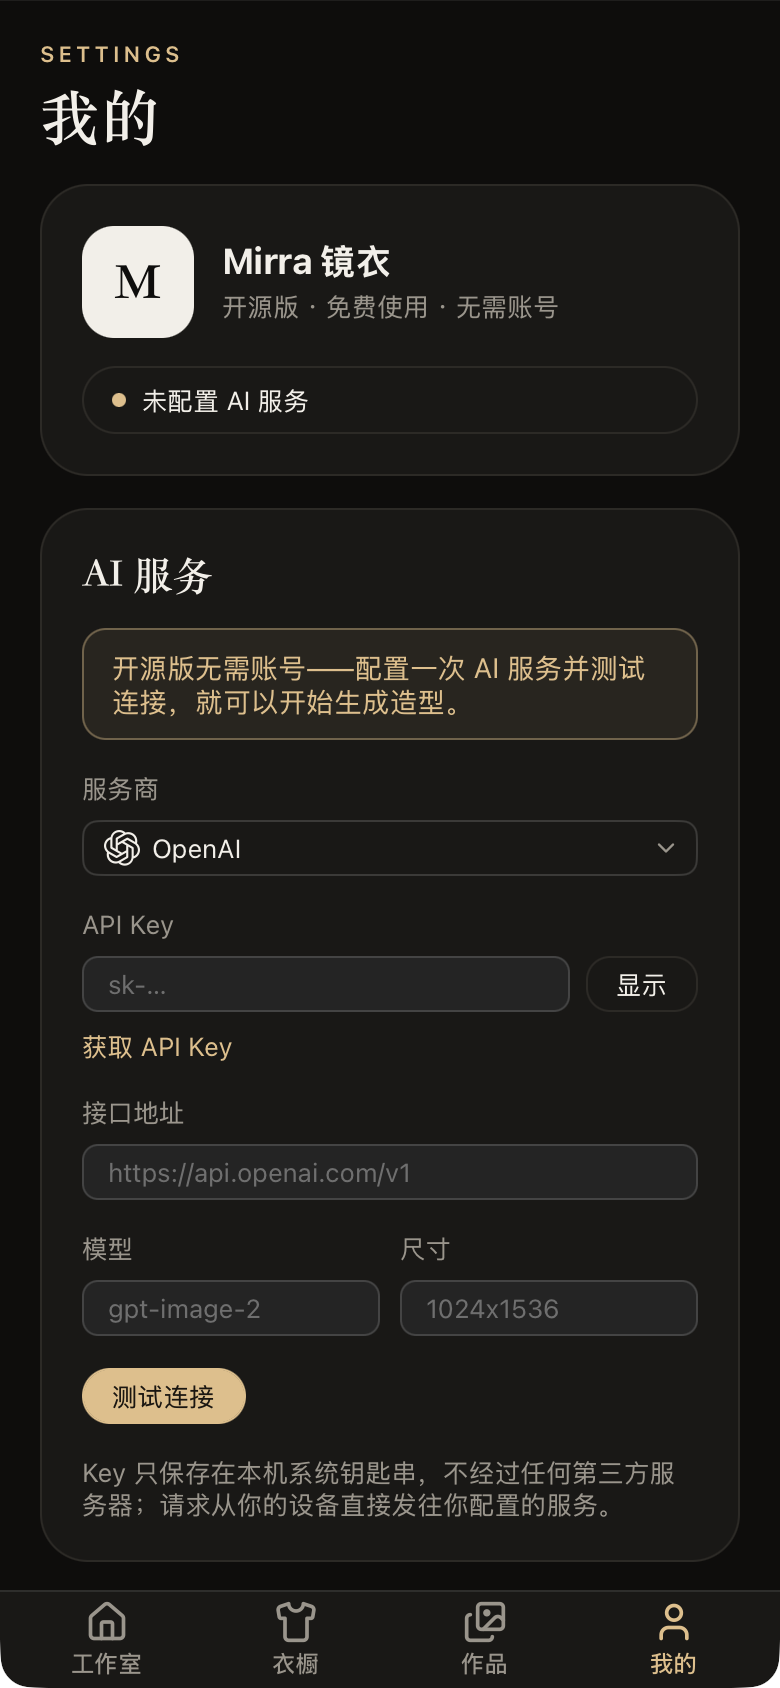
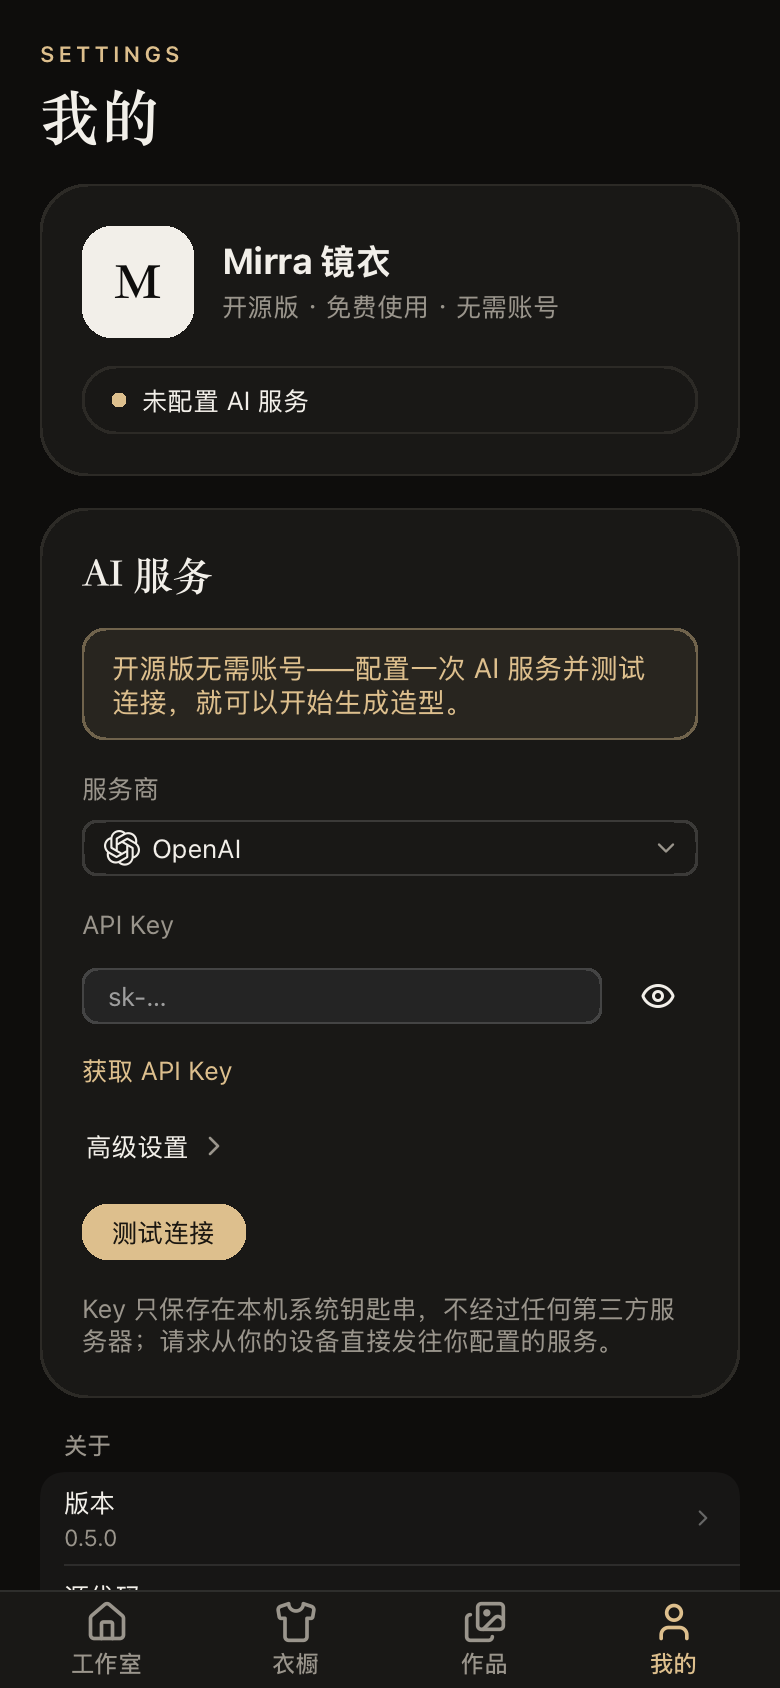
feat(settings): put the address, model and size under Advanced
The AI settings show the provider and the key first. The address, model and size move under an Advanced section, which opens on its own once one of them is changed and resets them to the provider's; Azure OpenAI and a custom server keep their address beside the key, since they have none of their own. The size is chosen as portrait, square or landscape, the key is shown or hidden with an eye button, and About gives the version.

The desktop dialog scrolls its settings, which with Advanced open are taller than a small window.

diff --git a/apps/mirra/pages.go b/apps/mirra/pages.go
@@ -366,20 +366,27 @@ func (s *studio) serviceSettings(cx *core.Scope) core.Node {
 		if p.KeyOptional {
 			keyLabel = t.ApiKeyOptional()
 		}
-		keyRow := core.View{Style: core.Style{Direction: core.Row, Gap: 8}, Children: []core.Node{
+		keyRow := core.View{Style: core.Style{Direction: core.Row, AlignItems: core.AlignCenter, Gap: 8}, Children: []core.Node{
 			core.View{Style: core.Style{FlexGrow: 1, FlexShrink: 1}, Children: []core.Node{
 				core.Dynamic(func(cx *core.Scope) core.Node {
 					return ui.Input{Value: set.key.Get, OnChange: setKey, OnBlur: saveKey, Masked: !s.showKey.Get(), Label: keyLabel, Placeholder: p.KeyHint, TestID: "api-key"}
 				}),
 			}},
-			core.Dynamic(func(cx *core.Scope) core.Node {
-				text := t.ShowKey()
-				if s.showKey.Get() {
-					text = t.HideKey()
-				}
-				return ui.Button{Variant: ui.ButtonOutline, TestID: "show-key", Style: core.Style{CornerRadius: 12},
-					Text: text, OnPress: func() { s.showKey.Update(func(v bool) bool { return !v }) }}
-			}),
+			ui.IconButton{TestID: "show-key", Size: 40, IconSize: 18,
+				Icon: func() *core.SVG {
+					if s.showKey.Get() {
+						return lucide.EyeOff()
+					}
+					return lucide.Eye()
+				},
+				LabelFunc: func() string {
+					if s.showKey.Get() {
+						return t.HideKey()
+					}
+					return t.ShowKey()
+				},
+				Selected: s.showKey.Get,
+				OnPress:  func() { s.showKey.Update(func(v bool) bool { return !v }) }},
 		}}
 		key := []core.Node{caption(cx, func() string { return keyLabel }), keyRow}
 		if p.KeyURL != "" {
@@ -389,20 +396,53 @@ func (s *studio) serviceSettings(cx *core.Scope) core.Node {
 		if urlHint == "" {
 			urlHint = p.URLHint
 		}
-		half := func(n core.Node) core.Node {
-			return core.View{Style: core.Style{FlexGrow: 1, FlexBasis: core.Pt(0)}, Children: []core.Node{n}}
+		address := field(cx, t.BaseURL, ui.Input{Value: set.url.Get, OnChange: setStored("url", func(ps providerSettings) *core.Signal[string] { return ps.url }),
+			Label: t.BaseURL(), Placeholder: urlHint, KeyboardType: core.KeyboardURL, TestID: "base-url"})
+		size := func() string { return or(set.size.Get(), p.Size) }
+		sizes := ui.Tabs[string]{Label: t.Size(), Equal: true, Value: size, TestID: "size",
+			OnChange: func(v string) {
+				// The preset's own size is kept as "", so the setting follows the preset.
+				if v == p.Size {
+					v = ""
+				}
+				setStored("size", func(ps providerSettings) *core.Signal[string] { return ps.size })(v)
+			},
+			Options: []ui.Option[string]{
+				{Value: sizePortrait, Label: t.SizePortrait(), TestID: "size-portrait"},
+				{Value: sizeSquare, Label: t.SizeSquare(), TestID: "size-square"},
+				{Value: sizeLandscape, Label: t.SizeLandscape(), TestID: "size-landscape"},
+			}}
+		changed := func() bool { return set.url.Get() != "" || set.model.Get() != "" || set.size.Get() != "" }
+		reset := ui.Button{Text: t.ResetDefaults(), Icon: lucide.RotateCcw, Variant: ui.ButtonGhost, Size: ui.SizeSmall, TestID: "reset-defaults", Disabled: func() bool { return !changed() },
+			OnPress: func() {
+				for _, f := range []struct {
+					name string
+					sig  *core.Signal[string]
+				}{{"url", set.url}, {"model", set.model}, {"size", set.size}} {
+					f.sig.Set("")
+					store.RemoveItem(p.storageKey(f.name))
+				}
+				s.resetConnection()
+			}}
+		var advanced []core.Node
+		// A provider without an address of its own, such as Azure's, needs the user's: it shows with the key rather than among the advanced settings.
+		if p.BaseURL != "" {
+			advanced = append(advanced, address)
 		}
-		return core.View{Style: core.Style{Gap: 16}, Children: []core.Node{
-			core.View{Style: core.Style{Gap: 8}, Children: key},
-			field(cx, t.BaseURL, ui.Input{Value: set.url.Get, OnChange: setStored("url", func(ps providerSettings) *core.Signal[string] { return ps.url }),
-				Label: t.BaseURL(), Placeholder: urlHint, KeyboardType: core.KeyboardURL, TestID: "base-url"}),
-			core.View{Style: core.Style{Direction: core.Row, Gap: 10}, Children: []core.Node{
-				half(field(cx, t.Model, ui.Input{Value: set.model.Get, OnChange: setStored("model", func(ps providerSettings) *core.Signal[string] { return ps.model }),
-					Label: t.Model(), Placeholder: p.Model, TestID: "model"})),
-				half(field(cx, t.Size, ui.Input{Value: set.size.Get, OnChange: setStored("size", func(ps providerSettings) *core.Signal[string] { return ps.size }),
-					Label: t.Size(), Placeholder: p.Size, TestID: "size"})),
-			}},
-		}}
+		advanced = append(advanced,
+			field(cx, t.Model, ui.Input{Value: set.model.Get, OnChange: setStored("model", func(ps providerSettings) *core.Signal[string] { return ps.model }),
+				Label: t.Model(), Placeholder: p.Model, TestID: "model"}),
+			field(cx, t.Size, sizes),
+			core.View{Style: core.Style{Direction: core.Row}, Children: []core.Node{reset}})
+		// The advanced settings open on their own when the user changed one; read untracked, so changing a field does not draw the fields again.
+		open := core.NewSignal(cx, core.Untracked(cx, changed))
+		children := []core.Node{core.View{Style: core.Style{Gap: 8}, Children: key}}
+		if p.BaseURL == "" {
+			children = append(children, address)
+		}
+		children = append(children, ui.Collapsible{Text: t.AdvancedSettings(), Open: open.Get, OnOpenChange: open.Set, TestID: "advanced",
+			Content: core.View{Style: core.Style{Gap: 16, Padding: core.Edges{Top: 12}}, Children: advanced}})
+		return core.View{Style: core.Style{Gap: 16}, Children: children}
 	})
 	result := core.Dynamic(func(cx *core.Scope) core.Node {
 		switch s.conn.Get() {
@@ -449,7 +489,12 @@ func (s *studio) serviceSettings(cx *core.Scope) core.Node {
 func (s *studio) aboutLinks(cx *core.Scope) core.Node {
 	t := locales.For(cx)
 	open := func(url string) func() { return func() { cx.OpenURL(url, func(bool) {}) } }
+	version := core.App().Version
+	if version == "" {
+		version = t.VersionDevelopment()
+	}
 	return ui.FormSection{Title: t.AboutSection(), Children: []core.Node{
+		ui.FormRow{Title: t.Version(), Detail: version, OnPress: open(repoURL + "/releases"), TestID: "version"},
 		ui.FormRow{Title: t.SourceCode(), Detail: "GitHub", OnPress: open(repoURL)},
 		ui.FormRow{Title: t.License(), Detail: "MIT", OnPress: open(repoURL + "/blob/main/LICENSE")},
 		ui.FormRow{Title: t.SourcesPose(), Detail: "POSE-DB-01", OnPress: open(DefaultSites.Pose)},
@@ -506,6 +551,9 @@ func (s *studio) settingsDialog(cx *core.Scope) core.Node {
 		Footer: []core.Node{ui.Button{Text: t.Close(), Variant: ui.ButtonSecondary, TestID: "close-settings", Style: core.Style{CornerRadius: 999},
 			OnPress: func() { s.settingsShown.Set(false) }}},
 		Children: []core.Node{
-			core.View{TestID: "settings", Style: core.Style{Gap: 16}, Children: []core.Node{s.serviceSettings(cx), s.aboutLinks(cx)}},
+			// The dialog stops at the window's height; with Advanced open the settings are taller, so they scroll inside it.
+			core.Scroll{Style: core.Style{FlexShrink: 1, MinHeight: core.Pt(0)}, Children: []core.Node{
+				core.View{TestID: "settings", Style: core.Style{Gap: 16}, Children: []core.Node{s.serviceSettings(cx), s.aboutLinks(cx)}},
+			}},
 		}}
 }

diff --git a/apps/mirra/locales/catalog_gen.go b/apps/mirra/locales/catalog_gen.go
@@ -217,6 +217,13 @@ const (
 	textProviderVolcengine
 	textProviderDashScope
 	textGetApiKey
+	textAdvancedSettings
+	textSizePortrait
+	textSizeSquare
+	textSizeLandscape
+	textResetDefaults
+	textVersion
+	textVersionDevelopment
 	textBaseURL
 	textApiKey
 	textApiKeyOptional
@@ -360,6 +367,13 @@ var keyOfText = [numTexts]string{
 	"providerVolcengine",
 	"providerDashScope",
 	"getApiKey",
+	"advancedSettings",
+	"sizePortrait",
+	"sizeSquare",
+	"sizeLandscape",
+	"resetDefaults",
+	"version",
+	"versionDevelopment",
 	"baseURL",
 	"apiKey",
 	"apiKeyOptional",
@@ -501,6 +515,13 @@ var textsEn = i18n.NewTexts(""+
 	"Volcengine Ark"+
 	"Alibaba Cloud Model Studio"+
 	"Get an API key"+
+	"Advanced"+
+	"Portrait"+
+	"Square"+
+	"Landscape"+
+	"Reset to defaults"+
+	"Version"+
+	"Development build"+
 	"Address"+
 	"API key"+
 	"API key (optional)"+
@@ -639,6 +660,13 @@ var textsEn = i18n.NewTexts(""+
 		14,
 		26,
 		14,
+		8,
+		8,
+		6,
+		9,
+		17,
+		7,
+		17,
 		7,
 		7,
 		18,
@@ -780,6 +808,13 @@ var textsZhHans = i18n.NewTexts(""+
 	"火山方舟"+
 	"阿里云百炼"+
 	"获取 API Key"+
+	"高级设置"+
+	"竖版"+
+	"方形"+
+	"横版"+
+	"恢复默认"+
+	"版本"+
+	"开发版"+
 	"接口地址"+
 	"API Key"+
 	"API Key（可留空）"+
@@ -918,6 +953,13 @@ var textsZhHans = i18n.NewTexts(""+
 		12,
 		15,
 		14,
+		12,
+		6,
+		6,
+		6,
+		12,
+		6,
+		9,
 		12,
 		7,
 		22,
@@ -2306,6 +2348,55 @@ func GetApiKey(cx *core.Scope) string { return For(cx).GetApiKey() }
 
 // GetApiKey is the package's GetApiKey in the language of msgs.
 func (msgs Messages) GetApiKey() string { return msgs.text(textGetApiKey) }
+
+// AdvancedSettings says "Advanced"
+// in the language the app shows under cx.
+func AdvancedSettings(cx *core.Scope) string { return For(cx).AdvancedSettings() }
+
+// AdvancedSettings is the package's AdvancedSettings in the language of msgs.
+func (msgs Messages) AdvancedSettings() string { return msgs.text(textAdvancedSettings) }
+
+// SizePortrait says "Portrait"
+// in the language the app shows under cx.
+func SizePortrait(cx *core.Scope) string { return For(cx).SizePortrait() }
+
+// SizePortrait is the package's SizePortrait in the language of msgs.
+func (msgs Messages) SizePortrait() string { return msgs.text(textSizePortrait) }
+
+// SizeSquare says "Square"
+// in the language the app shows under cx.
+func SizeSquare(cx *core.Scope) string { return For(cx).SizeSquare() }
+
+// SizeSquare is the package's SizeSquare in the language of msgs.
+func (msgs Messages) SizeSquare() string { return msgs.text(textSizeSquare) }
+
+// SizeLandscape says "Landscape"
+// in the language the app shows under cx.
+func SizeLandscape(cx *core.Scope) string { return For(cx).SizeLandscape() }
+
+// SizeLandscape is the package's SizeLandscape in the language of msgs.
+func (msgs Messages) SizeLandscape() string { return msgs.text(textSizeLandscape) }
+
+// ResetDefaults says "Reset to defaults"
+// in the language the app shows under cx.
+func ResetDefaults(cx *core.Scope) string { return For(cx).ResetDefaults() }
+
+// ResetDefaults is the package's ResetDefaults in the language of msgs.
+func (msgs Messages) ResetDefaults() string { return msgs.text(textResetDefaults) }
+
+// Version says "Version"
+// in the language the app shows under cx.
+func Version(cx *core.Scope) string { return For(cx).Version() }
+
+// Version is the package's Version in the language of msgs.
+func (msgs Messages) Version() string { return msgs.text(textVersion) }
+
+// VersionDevelopment says "Development build"
+// in the language the app shows under cx.
+func VersionDevelopment(cx *core.Scope) string { return For(cx).VersionDevelopment() }
+
+// VersionDevelopment is the package's VersionDevelopment in the language of msgs.
+func (msgs Messages) VersionDevelopment() string { return msgs.text(textVersionDevelopment) }
 
 // BaseURL says "Address"
 // in the language the app shows under cx.

diff --git a/apps/mirra/app_test.go b/apps/mirra/app_test.go
@@ -247,6 +247,42 @@ func TestOldSettingsCarryOver(t *testing.T) {
 	}
 }
 
+// TestAdvancedSettings opens on the provider and key alone, keeps the address, model and size under Advanced, sends the size chosen there, and resets them to the preset's.
+func TestAdvancedSettings(t *testing.T) {
+	fresh := nsgotest.Start(t, App{DataDir: t.TempDir()}.Root, nsgotest.Environment(core.Environment{Locale: "en"}))
+	fresh.Press("text:Me")
+	fresh.Find("id:api-key")
+	fresh.Find("id:version")
+	if fresh.Exists("id:base-url") {
+		t.Error("a fresh install shows the address before Advanced is opened")
+	}
+	fresh.Press("id:advanced >> role:button")
+	fresh.WaitFor("id:base-url", wait)
+	fresh.Find("id:size-portrait")
+
+	api := &fakeAPI{}
+	app, _ := start(t, api, "k")
+	app.Press("text:Me")
+	// The test's address and model differ from OpenAI's, so Advanced opens on its own.
+	app.Find("id:base-url")
+	app.Press("id:size-square")
+	app.Press("text:Studio")
+	app.Press("id:row-pose")
+	choose(t, app, poseStand)
+	app.Press("id:generate")
+	app.WaitFor("id:shot-image", wait)
+	if got := api.last().Size; got != sizeSquare {
+		t.Errorf("size = %q, want the square one chosen", got)
+	}
+	app.Press("id:close-shot")
+	app.Press("text:Me")
+	app.Press("id:reset-defaults")
+	app.WaitUntil(wait, func() bool { return app.Find("id:reset-defaults").Props.Disabled })
+	if !app.Find("id:size-portrait").Props.Selected {
+		t.Error("resetting left the size other than the preset's portrait")
+	}
+}
+
 func TestConnectionTestReportsFailure(t *testing.T) {
 	app, _ := start(t, &fakeAPI{}, "bad")
 	app.Press("text:Me")

diff --git a/apps/mirra/providers.go b/apps/mirra/providers.go
@@ -131,6 +131,13 @@ const (
 	keyProvider      = "provider"
 )
 
+// The sizes the settings offer: portrait, which suits a full-length look, square and landscape.
+const (
+	sizePortrait  = "1024x1536"
+	sizeSquare    = "1024x1024"
+	sizeLandscape = "1536x1024"
+)
+
 // defaultLocalURL is the address an OpenAI-compatible server on the user's machine starts with.
 const defaultLocalURL = "http://127.0.0.1:8080/v1"
 

diff --git a/README.md b/README.md
@@ -98,7 +98,7 @@ go tool nsgo build                   # packages for every target in nsgo.yaml, i
 
 ### Set up the image API
 
-Open **Me** on a phone, or the settings button at the top right on the desktop, choose a provider, enter its key and press **Test connection**. The address, model and size start on the provider's own; change them only to use another region, gateway or model.
+Open **Me** on a phone, or the settings button at the top right on the desktop, choose a provider, enter its key and press **Test connection**. The address, model and size start on the provider's own and sit under **Advanced**; change them only to use another region, gateway or model, and **Reset to defaults** puts them back. Azure OpenAI and a custom server ask for their address beside the key.
 
 | Provider | API | Model it starts with |
 | --- | --- | --- |
@@ -112,7 +112,7 @@ Open **Me** on a phone, or the settings button at the top right on the desktop, 
 | stable-diffusion.cpp | its server's OpenAI-compatible `/images/edits` | `sd-cpp-local` |
 | Custom | any OpenAI-compatible `/images/edits` | `gpt-image-2` |
 
-Keys are stored in the macOS / iOS keychain, Android Keystore or Windows Credential Manager. The size is written as `1024x1536`; providers that take an aspect ratio get the closest one, `2:3`.
+Keys are stored in the macOS / iOS keychain, Android Keystore or Windows Credential Manager. The size is portrait (`1024x1536`), square (`1024x1024`) or landscape (`1536x1024`); providers that take an aspect ratio get the matching one, such as `2:3`.
 
 The connection test asks the provider for its models; Volcengine Ark and Model Studio have no such list, so the test sends them an empty request, which a valid key gets a 400 for. Each Generate is one call, or one per picture on Ark and Gemini, paid on a cloud provider. The requests follow each provider's API reference and are tested against fakes of them; they have not all been tried against the real services yet, and reports of what a provider does with them are welcome.
 

diff --git a/README.zh-CN.md b/README.zh-CN.md
@@ -98,7 +98,7 @@ go tool nsgo build                   # 打包 nsgo.yaml 里列出的所有平台
 
 ### 配置生图接口
 
-手机上打开「我的」，桌面上点右上角的设置按钮，选一个服务商，填好 Key 后点「测试连接」。接口地址、模型和尺寸默认用服务商自己的，只有要换地区、网关或模型时才需要改。
+手机上打开「我的」，桌面上点右上角的设置按钮，选一个服务商，填好 Key 后点「测试连接」。接口地址、模型和尺寸默认用服务商自己的，收在「高级设置」里；只有要换地区、网关或模型时才需要改，「恢复默认」可以一键改回。Azure OpenAI 和自定义服务的接口地址直接显示在 Key 旁边。
 
 | 服务商 | 接口 | 默认模型 |
 | --- | --- | --- |
@@ -112,7 +112,7 @@ go tool nsgo build                   # 打包 nsgo.yaml 里列出的所有平台
 | stable-diffusion.cpp | 它的服务端提供的 OpenAI 兼容 `/images/edits` | `sd-cpp-local` |
 | 自定义 | 任何 OpenAI 兼容的 `/images/edits` | `gpt-image-2` |
 
-Key 存在 macOS / iOS 钥匙串、Android Keystore 或 Windows 凭据管理器里。尺寸写成 `1024x1536`；只接受宽高比的服务商会用最接近的比例 `2:3`。
+Key 存在 macOS / iOS 钥匙串、Android Keystore 或 Windows 凭据管理器里。尺寸可选竖版（`1024x1536`）、方形（`1024x1024`）或横版（`1536x1024`）；只接受宽高比的服务商会用对应的比例，比如 `2:3`。
 
 测试连接会请求服务商的模型列表；火山方舟和阿里云百炼没有这个接口，就发一个空请求，Key 有效时会返回 400。每按一次「生成」是一次调用（火山方舟和 Gemini 是每张图一次），云端服务商会按次计费。各家请求都按官方 API 文档实现，并在测试里的模拟接口上验证过；还没有逐一对真实服务测试，欢迎反馈各服务商的实际表现。
 

diff --git a/CHANGELOG.md b/CHANGELOG.md
@@ -2,6 +2,7 @@
 
 ## Unreleased
 
+- The AI settings show the provider and key first, with the address, model and size under Advanced and a reset to the provider's defaults; the size is chosen as portrait, square or landscape, the key is shown with an eye button, the About section gives the version, and the desktop settings scroll when they are taller than the window.
 - The AI settings preset OpenAI, Google Gemini, Volcengine Ark, xAI, OpenRouter, Alibaba Cloud Model Studio, Azure OpenAI and stable-diffusion.cpp, with their logos and a link to get a key, besides any OpenAI-compatible address. Each provider keeps its own key and settings; the cloud or local service set up before carries over.
 
 ## 0.5.0 - 2026-11-20
